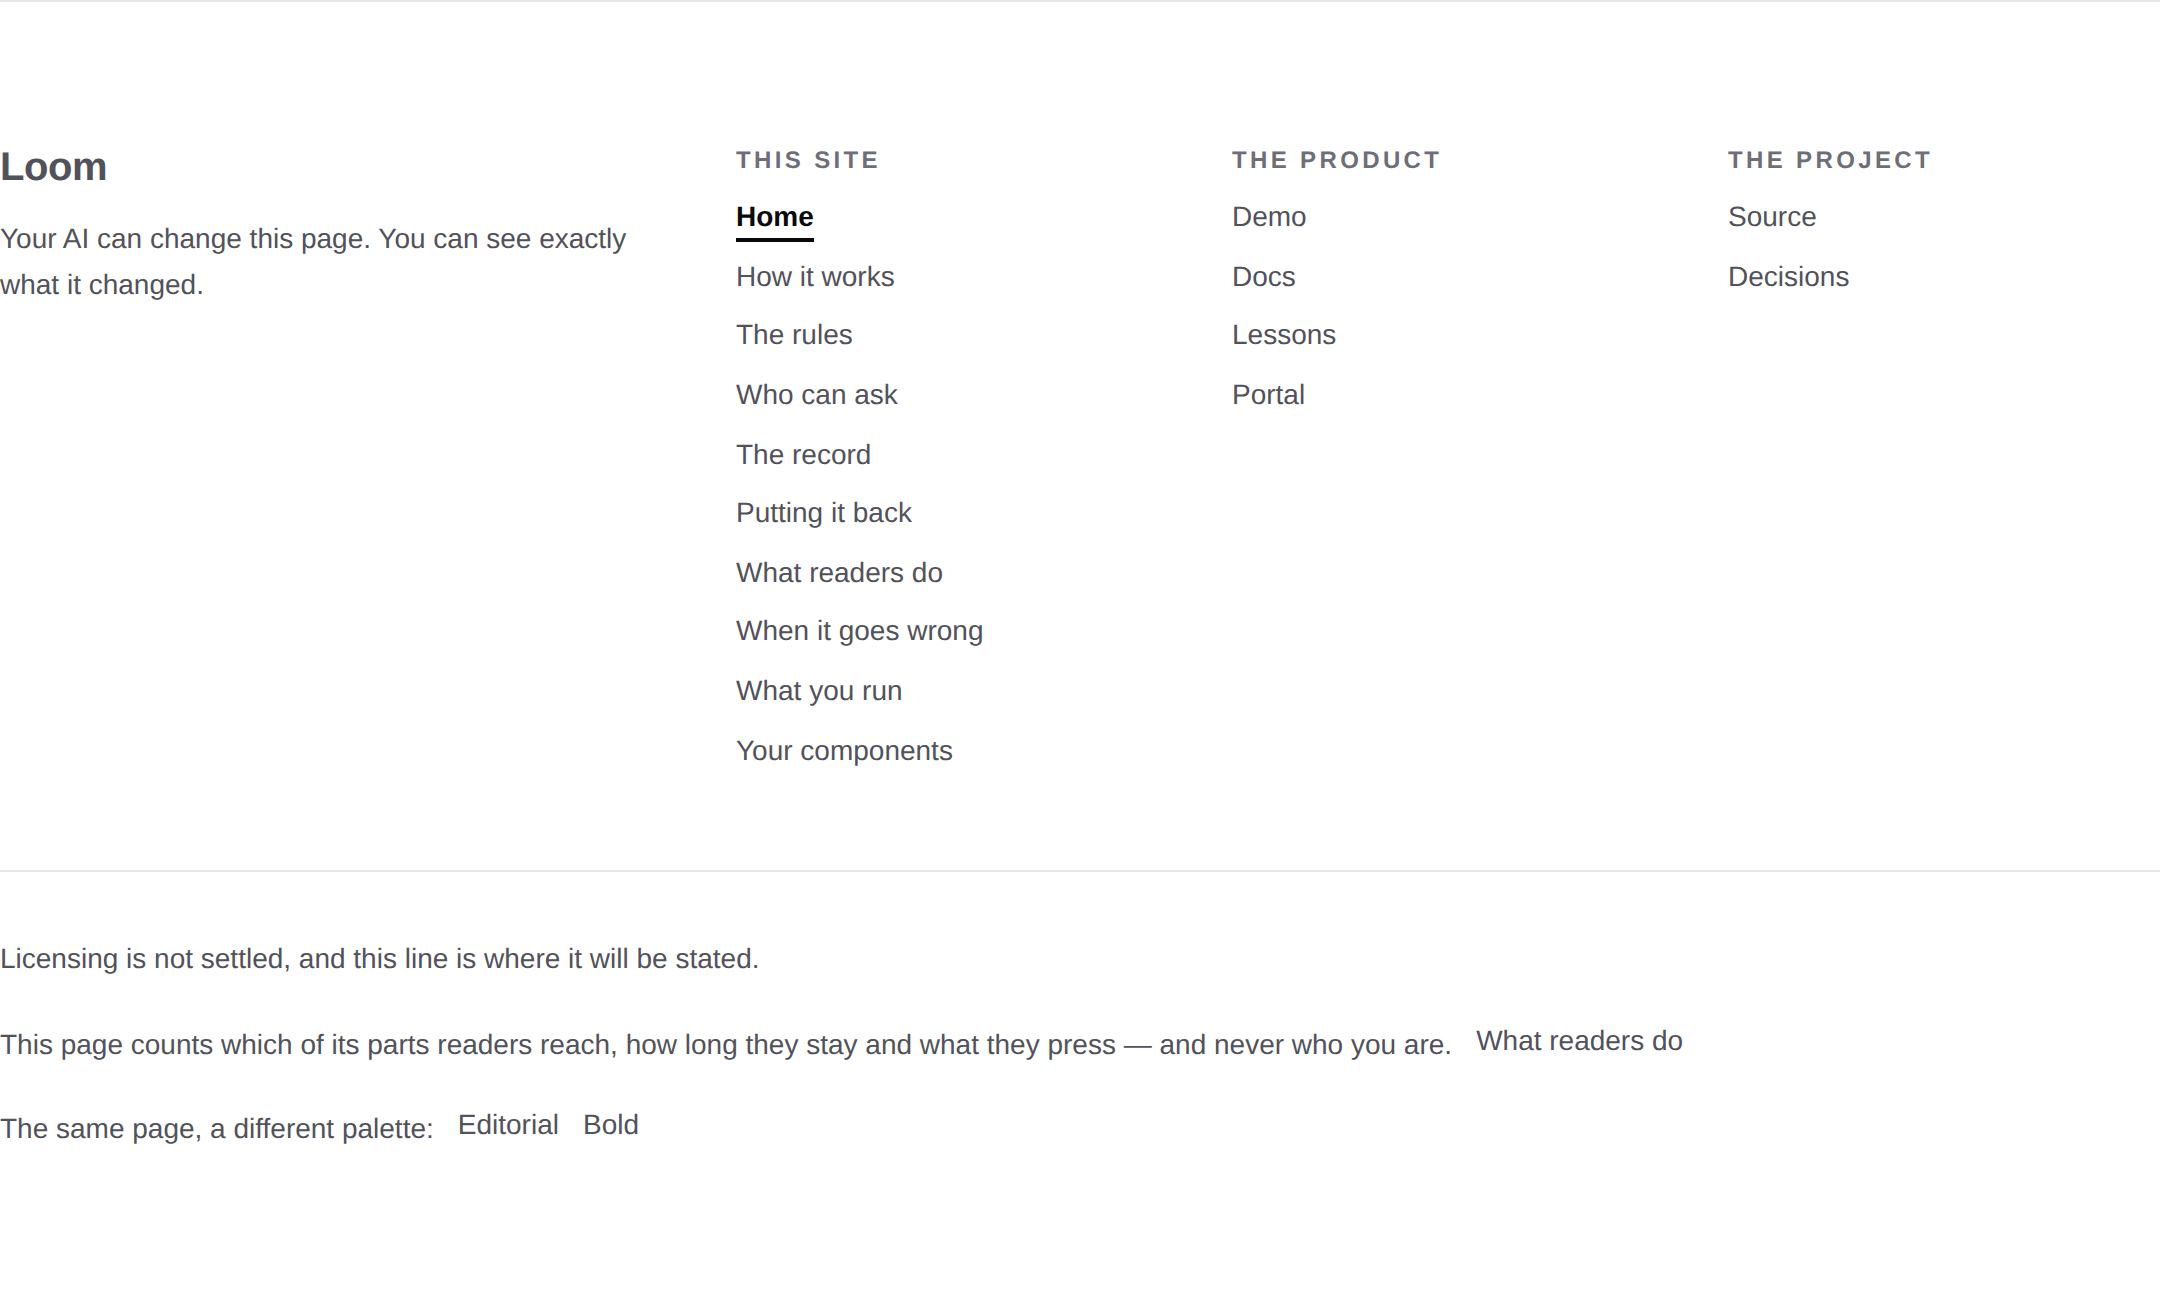
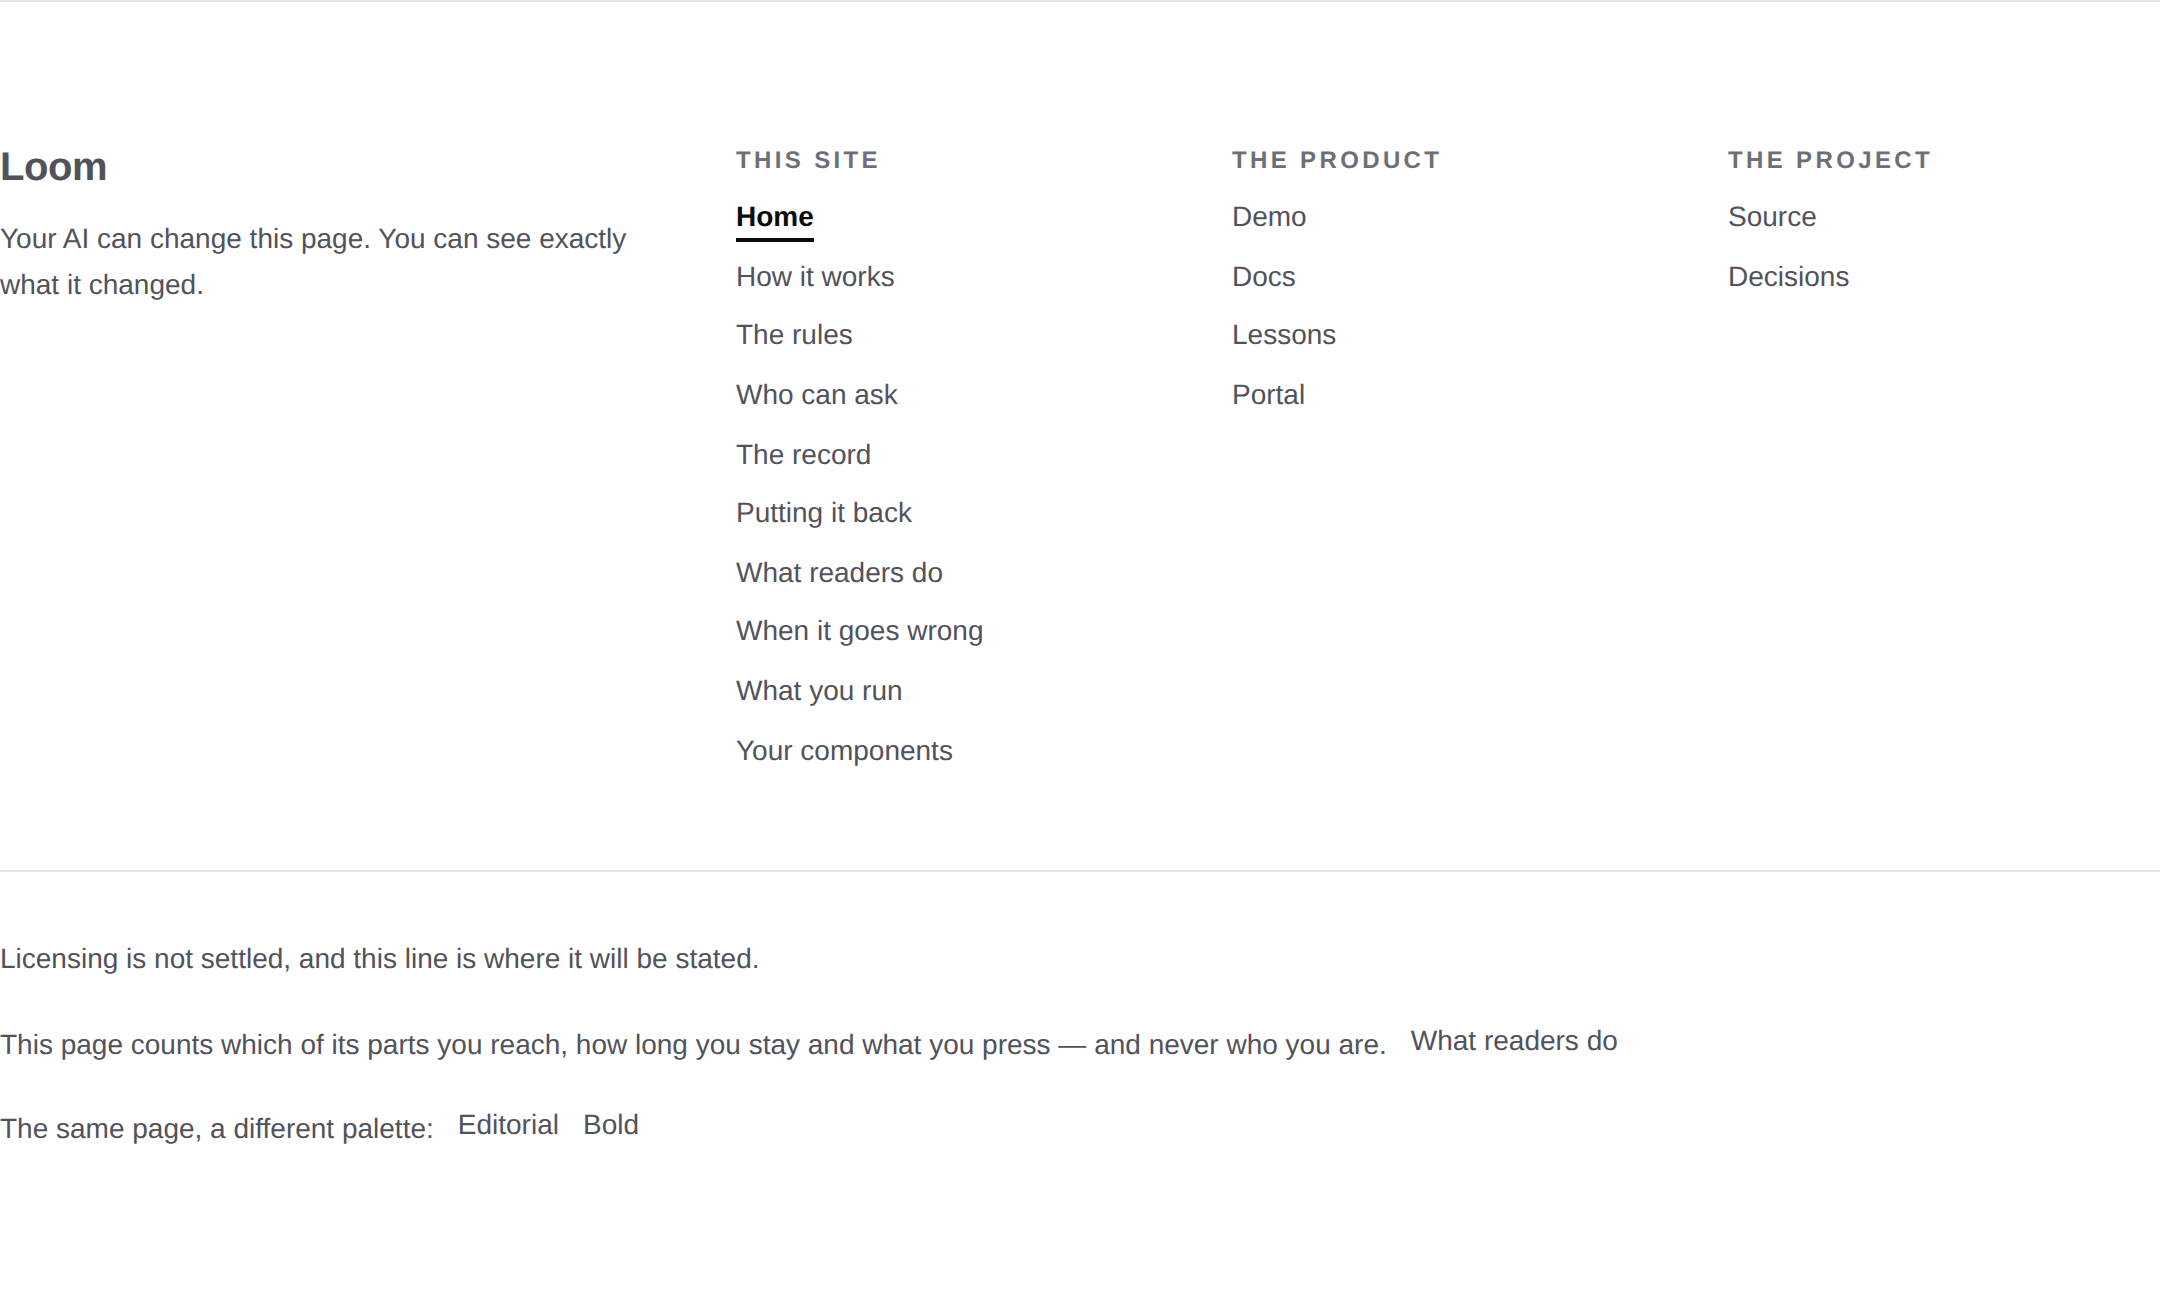
Report: the site speaks through the door, measured in Chromium in both states
Claude-Session: https://claude.ai/code/session_0114A7rJL2nFwa39HywrjRuM

Changed region(s): [[0.1861, 0.7716, 0.7755, 0.8333]]

diff --git a/reports/2026-09-17-marketing-speaking-through-the-door.md b/reports/2026-09-17-marketing-speaking-through-the-door.md
@@ -1,0 +1,343 @@
+# 2026-09-17 — marketing: the site speaks through the door
+
+`/what-readers-do` has said since yesterday that Loom can count what readers
+did, and that counting is off unless you turn it on. Both halves were true, and
+the second one was true of this surface **by doing nothing at all**: no page of
+this route group broadcast anything, so *this site counts nobody* cost nothing
+to promise.
+
+`/api/reader-signals` landed on `main` with #312 overnight, which was the exact
+precondition this lane wrote down on 16 September for the other half of the
+framework lane's finding — *the door is open and nobody is speaking through it*.
+So the site speaks through it now, and says so where a reader can read it.
+
+![the page, 1280×900](2026-09-17-marketing-speaking-through-the-door.png)
+
+---
+
+## What shipped
+
+**One boolean, read once per request, and three things follow from it.**
+
+`LOOM_SIGNAL_INTAKE` is the switch the endpoint already reads to decide whether
+it keeps a batch. `_lib/readers/counting.ts` reads the same switch through the
+endpoint's own `readIntakeSwitch`, rather than parsing the variable a second
+time, so this surface cannot disagree with the endpoint about whether the
+deployment collects.
+
+| what reads it | what it does |
+| --- | --- |
+| `render.ts` | renders every page `addressed`, so each band carries the id a signal names |
+| `layout.tsx` | mounts one client component that starts a broadcaster and posts to `/api/reader-signals` |
+| the page trees | the foot of every page, and two sentences on `/what-readers-do`, say which of the two deployments this is |
+
+**Off — which is what this deployment is until somebody sets the variable — the
+markup is byte-identical to yesterday's, nothing is downloaded, and no batch is
+sent anywhere.** That is measured below rather than asserted.
+
+### What this site asks to be told
+
+`_lib/readers/asked.ts` is the promise, as one object: time on screen for the
+bands, presses for the controls, openings for a question. A list per kind rather
+than one list for everything, which is the shape 0136 exists for — asking all
+four kinds of everything would bury the reading that matters under a `dwelled`
+for every link on screen several times a minute.
+
+| kind | what it is asked about |
+| --- | --- |
+| `viewed`, `dwelled` | `loom.hero`, `loom.section`, `loom.logo-cloud` — the bands a reader travels through |
+| `activated` | `loom.action`, `loom.link`, `loom.logo` |
+| `disclosed` | `loom.faq` |
+
+The menu and the foot of the page are deliberately left out, and the menu is the
+one that matters: the bar is `position: sticky`, so it is on screen for every
+second of every visit. Time on screen for it would be the largest figure on any
+report, about the one band nobody reads.
+
+**`loom.logo-cloud` is in that first row because the test put it there.** The
+row of four plain words on the front door is a band at the top level of the
+tree — one of the nine bars `/what-readers-do` already prints — and the list I
+wrote by hand had two of the three. Left as it was, it would have been the one
+band of the site's most-read page that nothing counted, and nothing would have
+said so.
+
+### The one piece of this site that runs in a browser
+
+`_components/count-readers.tsx` — `"use client"`, returns `null`, starts one
+broadcaster on `[data-loom-tree]`, stops on unmount. It draws nothing on
+purpose: a visible element here would be markup this site does not build out of
+registered primitives, and *the whole page is data* has to be true at the edges
+too.
+
+It leaves one thing behind that a reader never sees:
+`data-reader-signals="broadcasting"` on the document, or `"unaddressed"` when
+there was nothing to broadcast from. A broadcaster that started against the
+wrong element behaves exactly like a site nobody is visiting — no batch, no
+error, no difference — and that attribute is what makes the difference
+falsifiable, in a test and in a real browser.
+
+Not `data-loom-…`: that prefix is the runtime's, for the addresses a signal
+names, and a surface inventing a fifth one would make the set of attributes that
+mean something to Loom a matter of who wrote them.
+
+---
+
+## Measured in Chromium, against `next start`
+
+Both states, on the built application, with the endpoint's status endpoint asked
+first so the two halves are known to agree.
+
+| | counting off (this deployment today) | counting on |
+| --- | --- | --- |
+| `GET /api/reader-signals` | `intake: off` | `intake: on` |
+| `data-reader-signals` on the document | **absent** | **`broadcasting`** |
+| elements carrying `data-loom-node` | **0** | **138** on `/`, **117** on `/what-readers-do` |
+| batches posted after a scroll, a press and an opening | **0** | **2** |
+| what the endpoint answered | — | **204, both** |
+
+The batch bodies are read off the page's own `loom:signals` event, because a
+`sendBeacon` body is not visible to a network listener. On the front door, one
+page view, two deliveries:
+
+```
+{ treeId: "t_home1", revision: 0, view: "d4ddf420b8…", signals: 20,
+  kinds: [viewed, activated, disclosed, dwelled],
+  types: [loom.hero, loom.logo-cloud, loom.section, loom.action, loom.faq] }
+{ treeId: "t_home1", revision: 0, view: "d4ddf420b8…", signals: 1,
+  kinds: [dwelled], types: [loom.section] }
+```
+
+Four things worth reading off that: every kind arrived, **only the asked types
+arrived**, both batches carry **one** view key — correlated inside one page view
+and nowhere else (0146) — and `loom.logo-cloud` is in it, which is the band the
+test caught.
+
+---
+
+## Found while building: a press is filed against the button, not the band
+
+The tile on `/what-readers-do` for *they used something in it* said **"The band
+it happened in is named; what was typed is not."** Wiring the real broadcaster
+up and reading a batch back says otherwise:
+
+```
+{ kind: "activated", nodeId: "<the button>", type: "loom.action" }
+```
+
+`broadcastReaderSignals` files a signal against the **nearest addressed element**
+to what was pressed, and every control in the starter library is an addressed
+node of its own. Narrowing `types.activated` to band types does not walk further
+up either — the nearest element fails the filter and the signal is dropped — so
+asking for band-level activations yields **none** rather than band-level ones.
+
+It matters beyond a curiosity, because two things on that page are band-level
+activation claims: the per-band caption *5 used something in it*, and the funnel
+question whose second leg is an activation. Both are correct arithmetic over
+scripted visits that mint `activated` against **band ids**, which is a thing no
+browser will send. On real signals those figures are zero for every band,
+forever, and the page would not notice: the arithmetic is the same and the input
+is empty.
+
+**Filed for `Loom daily build`** with three shapes and a recommendation — the
+signal carrying the band as well as the control (a schema change and probably a
+record), `rollUp` being given the tree (cheap and wrong across revisions), or
+nothing changing and this page reporting controls instead. What this lane did
+today is the part that is unambiguously ours: **the tile now says "The link or
+the button is named; what somebody typed into it is not."** The figures stay as
+they are, beside a sentence that already says the visits are made up.
+
+---
+
+## The copy, and the two sentences that are now a function of the deployment
+
+Nothing here is a new claim about who the product is for. Positioning, audience
+and pricing are untouched.
+
+**The readings band, leading the numbers** — off:
+
+> The visits are made up and nobody reading this page has been counted: counting
+> is off unless you turn it on, and on this deployment it is off. The arithmetic
+> is not made up — 12 scripted visits go through the same working the rest of it
+> would use, while this page is being built.
+
+and on:
+
+> Counting is on here, so this page is counting what you do with it as you read:
+> which of its bands you reach, how long you stay, what you press — and nothing
+> whatever about you. The 12 visits in the bars below are still made up, and the
+> arithmetic still is not.
+
+| | |
+| --- | --- |
+| ![counting nobody](2026-09-17-marketing-readings-not-counting.png) | ![counting](2026-09-17-marketing-readings-counting.png) |
+
+**The foot of every page, when it is counting:** *"This page counts which of its
+parts you reach, how long you stay and what you press — and never who you are."*
+with a link to the page that says the rest of it.
+
+It is in the chrome rather than on one page because the counting is: a
+broadcaster is started by the layout, so whichever of the ten pages somebody
+landed on is counting them. A site that counted on ten pages and disclosed on
+one would be making the argument this site sells in exactly the form it tells a
+reader not to accept.
+
+| | |
+| --- | --- |
+| ![footer, counting nobody](2026-09-17-marketing-footer-not-counting.png) | ![footer, counting](2026-09-17-marketing-footer-counting.png) |
+
+**And the question band's answer to *do the bars come from real visitors?*** —
+still *no* on either deployment, with the second sentence saying whether the
+reader asking is being counted. A reader on a counting deployment gets the
+awkward half in the same breath as the reassuring half: the bars are a fixture,
+**and** you are counted, and those are not in tension because what is kept about
+you is a band and a number of seconds.
+
+---
+
+## Also closed: seven of the eight rungs, not four
+
+The framework lane's finding with the eighth rung asked this lane to re-derive
+*"four of the eight rules refuse to consult who asked at all"*. Re-derived, and
+the answer is **seven**.
+
+Four was a count of the rungs whose comments say *whatever latitude its origin
+has*. The question the sentence asks is which rungs **read an origin**, and off
+`ESCALATION_RULES` that is exactly one: `stakes-above-ceiling`, through
+`ceilingFor(policy, origin)` — which is 0002's *"the one place origin is
+load-bearing rather than merely recorded"* and the reason `/who-can-ask` exists
+at all.
+
+Both comments now say seven and say how it was counted. **Nothing a reader sees
+was wrong**: the only count in front of a reader is the link label *The eight,
+one by one*, which the framework lane had already corrected.
+
+---
+
+## Tests
+
+`pnpm install && pnpm verify` — **green, exit 0. Nothing failed, nothing
+skipped, no test weakened or deleted.**
+
+| suite | `main` at `d5b1eb2` | this branch |
+| --- | --- | --- |
+| `@loom/runtime` | 153 files / 2,697 tests | **153 / 2,697** — `src/` was not opened |
+| `@loom/app` | 263 files / 4,652 tests | **266 / 4,679** |
+| marketing, within it | 33 files / 1,530 tests | **36 / 1,557** |
+
+`findings:check` reads 656 entries, 0 malformed. `prerender:check` reports 106
+pages and 834 junctions, 0 run together — unchanged, and correctly so: every
+page of this route group reads `searchParams`, so none has ever been in that
+count.
+
+The `main` numbers were measured by checking `main` out and running the suite,
+not quoted from a report.
+
+**27 tests are new across 3 new files**: the switch and the two things it keeps
+in step (10), what this site asks about (5), and the broadcaster on a real tree
+in jsdom (8), plus 3 on the footer's disclosure in `chrome.test.ts` and 1 on the
+readers page in both states.
+
+### Mutations
+
+Nine defects restored one at a time, each against a committed baseline. **Eight
+were caught first time. The ninth was not, and it is the useful half.**
+
+| mutation | result |
+| --- | --- |
+| `addressed` hardwired off — the flag ignored | **6 red** across both projects |
+| `addressed` hardwired on — every page addressed with nothing listening | **2 red** |
+| a value that is neither on nor off read as on | **1 red** |
+| the footer note on every page, counting or not | **2 red** |
+| the footer never discloses | **2 red** |
+| `loom.logo-cloud` dropped from the bands | **1 red** |
+| the two sentences swapped | **3 red** |
+| the broadcaster started on `body` rather than on the tree | **4 red** |
+| `types` removed — every kind about every addressed primitive | **passed** |
+
+The last one is the one worth the space. The component asking for *everything*
+was invisible to eight tests, for a reason that reads as reassuring and is not:
+**every control this site has is one it asks about**, so a press could not
+discriminate, and `viewed` never fired at all because jsdom has no
+`IntersectionObserver` and the stub watched nothing.
+
+The fix is a second stub — an observer that hands back everything it was asked
+to watch as *on screen*. What the broadcaster **observes** is decided by `types`,
+so that instrument can tell *the bands* from *the page*. With the narrowing in
+place the batch carries three types; without it, twenty-five, and the assertion
+names them:
+
+```
+AssertionError: expected [ 'loom.action', 'loom.badge', …(23) ] to deeply equal []
+```
+
+Caught now — 1 red, and the same test covers the measurement path that matters
+most.
+
+---
+
+## Both palettes, and a phone
+
+`scrollWidth 1280 / innerWidth 1280` and `390 / 390` — no overflow at either
+width, in either state.
+
+| | |
+| --- | --- |
+| ![editorial](2026-09-17-marketing-speaking-through-the-door.png) | ![bold](2026-09-17-marketing-speaking-through-the-door-bold.png) |
+
+![390px](2026-09-17-marketing-speaking-through-the-door-phone.png)
+
+The phone shot is one image rather than two on purpose: photographed in both
+states, the files came back **byte-identical** (`md5 70373690…`), because
+nothing above the fold differs — the disclosure is in the foot of the page and
+the sentence that changes is three bands down.
+
+No colour is named anywhere in the diff; every value is a token. **Nothing was
+added to the library**, and nothing in `src/` was opened. The one new component
+renders `null`.
+
+---
+
+## Decisions and findings
+
+**No record written.** Nothing is constrained outside this route group, no
+Accepted record is touched, and the switch is the endpoint's own. The one thing
+that would deserve a record is not mine: what an `activated` signal should be
+filed against.
+
+**Two findings closed**, both owned by this lane: the broadcast half of #312's
+finding (this branch is what it said the next run would do), and the rung count
+re-derivation.
+
+**Two findings filed.** The press-versus-band attribution, for
+`Loom daily build`. And the recipe, for `Loom demo`, `Loom docs` and
+`Loom lessons` — the three surfaces that still owe the same two calls — with the
+three things that would otherwise cost each of them a run: import from
+`@loom/runtime/signals/broadcast` and take the batch as a `type`; keep the
+environment read out of the client component's module graph; and make a silent
+broadcaster say something, because otherwise it is unfalsifiable.
+
+**One shape changed beyond the obvious scope.** `BackContext` and `AskersContext`
+spelled out their own `origin` and `theme` instead of extending `PageContext`,
+which is how they became the two page contexts that could not be told whether
+the deployment counts its readers. They now extend it, like the two beside them
+already did. Found by `tsc`, not by a test.
+
+## Needs your input
+
+- **Do you want counting on?** Nothing in this branch turns it on. Setting
+  `LOOM_SIGNAL_INTAKE=on` on the deployment makes the site count its own
+  readers, disclose it in the footer, and post batches to `/api/reader-signals`;
+  `DATABASE_URL` decides whether what is kept survives the instance. My
+  recommendation is **yes, on the preview first**, because the funnel of this
+  site's own front door is the most useful reader-signal data this project can
+  get and it costs nothing to stop.
+- **The disclosure wording is mine and it is a privacy statement**, which is the
+  one kind of copy I am least comfortable inventing. It claims exactly what
+  `asked.ts` asks for and 0146 guarantees, and it is one sentence in the footer.
+  Re-word freely; if you would rather it were a page, or a line in a privacy
+  policy that does not exist yet, say so and I will build that instead.
+- **The licence line** (#96, on every marketing PR since #134). Still the site's
+  one placeholder.
+- **Positioning, audience and pricing.** Untouched.
+
+Nothing scheduled and nothing armed.
